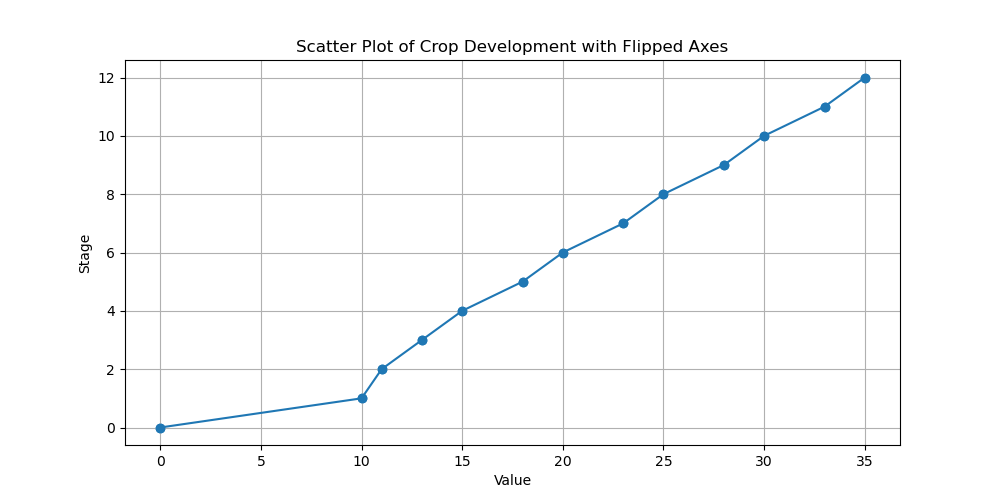
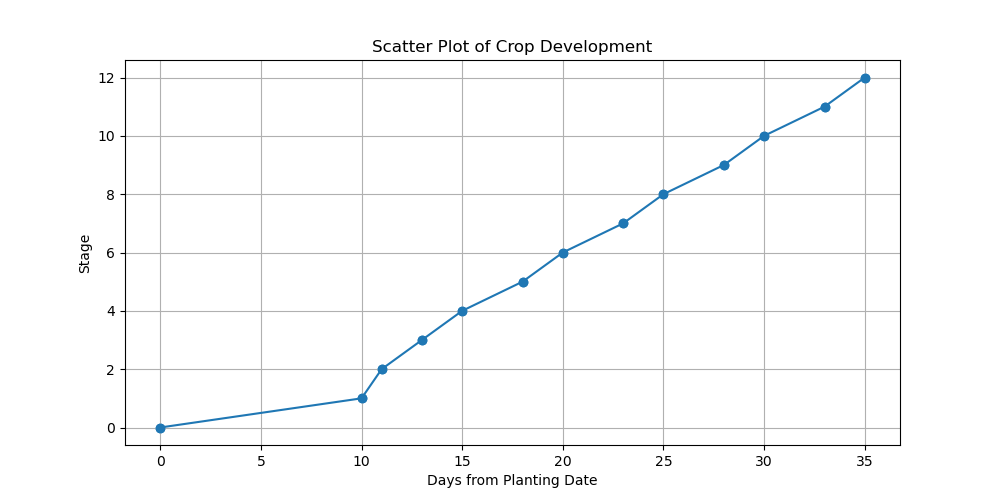
bug fixes, potato_disease request

Changed region(s): [[0.279, 0.06, 0.744, 0.12], [0.434, 0.93, 0.589, 0.99]]

diff --git a/backend/pythonProject/crop_development.py b/backend/pythonProject/crop_development.py
@@ -113,9 +113,9 @@ def get_and_create_custom_dataframe(long, lat, depth_val, density_val, row_spaci
   result = get_crop_prediction(long, lat, depth_val, density_val, row_spacing_val, field_water_capacity_val, crop,
                                crop_variety)
   custom_df = create_custom_dataframe(result)
-  return custom_df
+  return custom_df.values.tolist()
 
-def scatter_crop_develpment(data):
+def scatter_crop_development(data):
   x = [int(point[0]) for point in data]
   y = [point[1] for point in data]
 
@@ -123,8 +123,8 @@ def scatter_crop_develpment(data):
   plt.figure(figsize=(10, 5))
   plt.scatter(y, x)  # Note the change here for the flipped axes
   plt.plot(y, x, linestyle='-', marker='o')  # Connect the points with a line with axes flipped
-  plt.title('Scatter Plot of Crop Development with Flipped Axes')
-  plt.xlabel('Value')
+  plt.title('Scatter Plot of Crop Development')
+  plt.xlabel('Days from Planting Date')
   plt.ylabel('Stage')
   plt.grid(True)
   # plt.show()
@@ -133,11 +133,11 @@ def scatter_crop_develpment(data):
 
 if __name__ == '__main__':
   custom_df = get_and_create_custom_dataframe(-58.737, -29.025, 7, 5, 76, 90, "MAIZE", {"name": "SYN897"})
-  print(custom_df.to_string(index=False, header=False))
+  # print(custom_df.to_string(index=False, header=False))
 
-  array_without_header = custom_df.values.tolist()
-  print(array_without_header)
-  scatter_crop_develpment(array_without_header)
+  # array_without_header = custom_df.values.tolist()
+  # print(array_without_header)
+  scatter_crop_development(custom_df)
   # # return growth_stage_dates
   # result = get_crop_prediction(-58.737, -29.025, 7, 5, 76, 90, "MAIZE", {"name":"SYN897"})
   # print(result)

diff --git a/backend/pythonProject/potato_disease.py b/backend/pythonProject/potato_disease.py
@@ -1,0 +1,38 @@
+import http.client
+import os
+from dotenv import load_dotenv
+
+
+def get_potato_disease_risk(longitude, latitude, relative_humidity, start_date, end_date, model_id='EarlyBlight'):
+    load_dotenv()
+    forecast_API = os.getenv('AUTH_FORECAST_API')
+
+    conn = http.client.HTTPSConnection("services.cehub.syngenta-ais.com")
+    headers = {
+        'accept': '/',
+        'ApiKey': forecast_API
+    }
+
+    # Construct the API endpoint with query parameters
+    endpoint = f"/api/DiseaseRisk/PotatoRisk?latitude={latitude}&longitude={longitude}&startDate={start_date}&endDate={end_date}&modelId={model_id}&relativeHumidity={relative_humidity}"
+
+    # Send the request
+    conn.request("GET", endpoint, '', headers)
+    res = conn.getresponse()
+    data = res.read()
+
+    # Return the decoded data
+    return data.decode("utf-8")
+
+
+# Example usage
+if __name__ == '__main__':
+    # Define your parameters here
+    longitude = 7
+    latitude = 47
+    relative_humidity = 60  # Example humidity level
+    start_date = '2024-03-21'
+    end_date = '2024-03-24'
+
+    result = get_potato_disease_risk(longitude, latitude, relative_humidity, start_date, end_date)
+    print(result)
